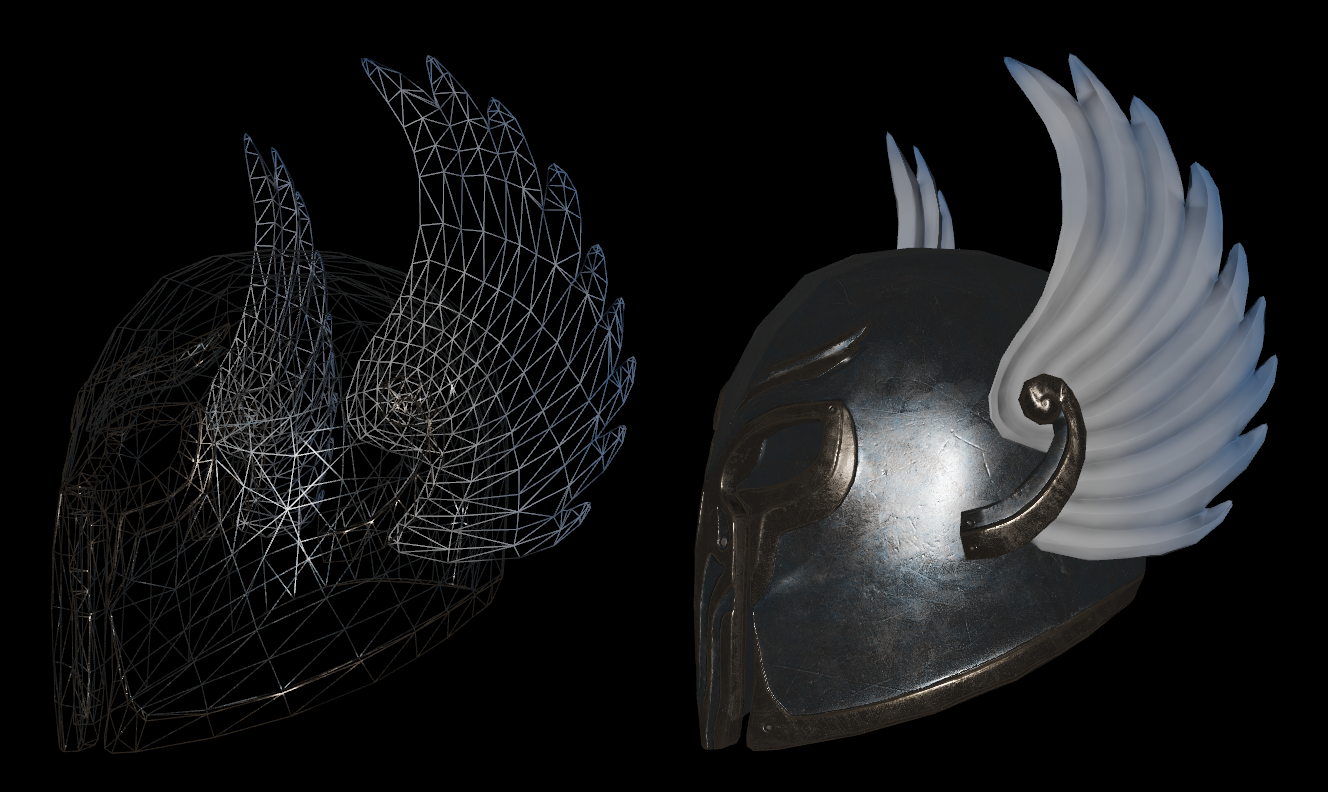
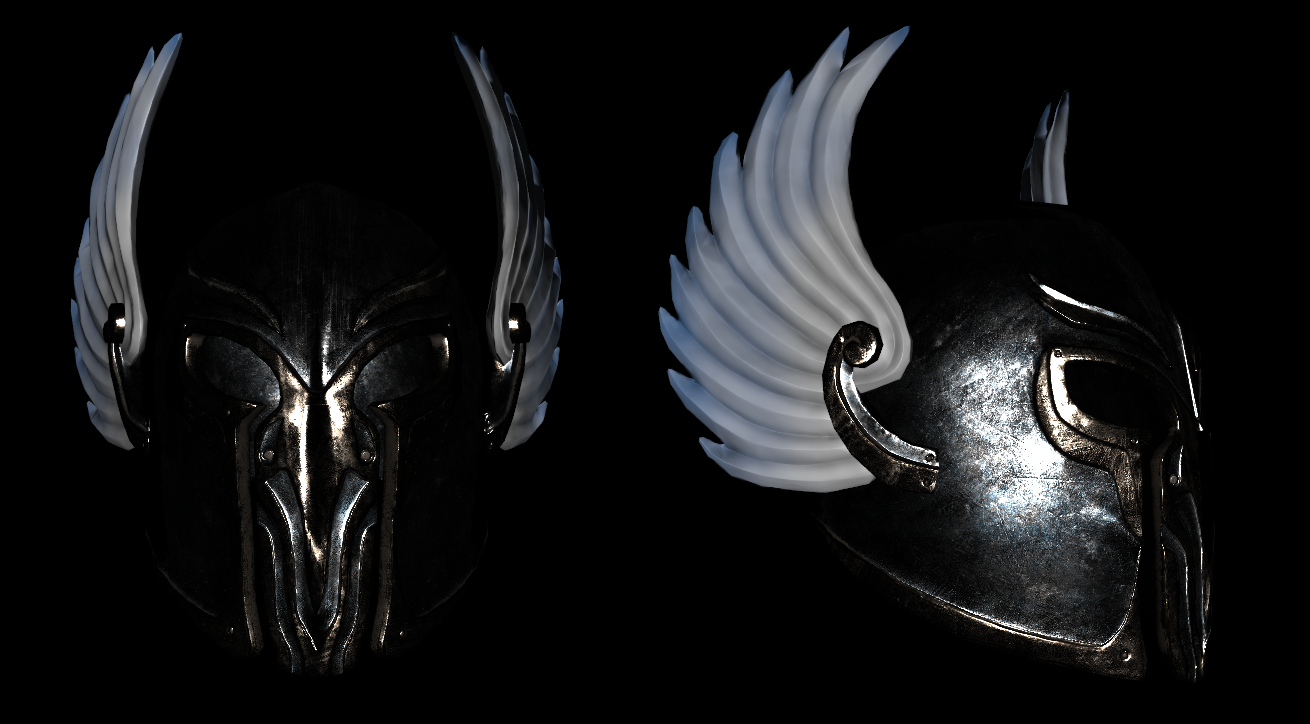
PBR improvements.
Former-commit-id: 627b5bbce116dc7125263aca098b2f6f8b824d4d [formerly 5e091105c04f564e76ded4a40b2308de1ba18736]
Former-commit-id: 474d54345386d47da9776db7f4a6f0b1cb49d98f

diff --git a/example/main.go b/example/main.go
@@ -13,8 +13,8 @@ import (
 
 func main() {
 	// Create a window.
-	window, err := laygl.NewFullScreenWindow("Layman OpenGL")
-	//window, err := laygl.NewWindow(1280, 720, "Layman OpenGL")
+	//window, err := laygl.NewFullScreenWindow("Layman OpenGL")
+	window, err := laygl.NewWindow(1280, 720, "Layman OpenGL")
 	if err != nil {
 		log.Fatalln("Unable to create fullscreen window:", err)
 	}
@@ -29,6 +29,9 @@ func main() {
 	// Load the model.
 	//model, err := laygl.LoadModel("helmet", "assets/cowboy.glb")
 	model, err := laygl.LoadModel("helmet", "assets/helmet.glb")
+	//model, err := laygl.LoadModel("helmet", "assets/corset.glb")
+	//model, err := laygl.LoadModel("helmet", "assets/boombox.glb")
+	//model, err := laygl.LoadModel("helmet", "assets/illya.glb")
 	if err != nil {
 		log.Fatalln("Unable to load cowboy model:", err)
 	}
@@ -56,7 +59,10 @@ func main() {
 	fps := 0
 	lastTime := time.Now()
 
-	entity.Translate(0, 0, -10) // FIXME: Why the directional light struggle at the origin?
+	//entity.Scale(2)
+	//entity.Scale(400)
+	//entity.Scale(600)
+	entity.Translate(0, 0, -10) // FIXME: Why the directional light struggles at the origin?
 
 	// Main loop
 	previousTime := glfw.GetTime()
@@ -68,7 +74,7 @@ func main() {
 		elapsed := t - previousTime
 		previousTime = t
 
-		entity.Rotate(0, float32(elapsed) * 0.25, 0)
+		entity.Rotate(0, float32(elapsed) * 0.5, 0)
 
 		// Render
 		renderer.Render(scene)

diff --git a/gltf.go b/gltf.go
@@ -322,6 +322,7 @@ func (g *Gltf) loadTexture(kind TextureKind, t *gltf.Texture) error {
 	}
 
 	detailed := kind == TextureAlbedo || kind == TextureMetallicRoughnessMap
+	detailed = true // FIXME
 
 	// Mipmapping.
 	if detailed {
@@ -382,7 +383,11 @@ func (g *Gltf) initialModelTransform() {
 
 func (g *Gltf) loadTangents() error {
 	// There aren't always present in the glTF file so we might as well just generate it all the time.
-	// TODO: Actually, only really needed for models with a normal map.
+
+	// Actually, only really needed for models with a normal map.
+	if g.mesh.normalMapTexture == nil {
+		return nil
+	}
 
 	g.mesh.tangents = g.generateTangents(g.mesh.indices, g.mesh.vertices, g.mesh.uvs, g.mesh.normals)
 

diff --git a/window.go b/window.go
@@ -62,6 +62,10 @@ func NewWindow(width, height int, title string) (*Window, error) {
 		log.Fatalln("Unable to initialize OpenGL:", err)
 	}
 
+	// Refresh every frame rendered. This is to please the window compositor on Windows, otherwise it stutters.
+	// The FPS should still remain that of the VSync.
+	glfw.SwapInterval(1)
+
 	return w, nil
 }
 
@@ -119,7 +123,7 @@ func incrementGlfw() {
 	glfw.WindowHint(glfw.ContextVersionMinor, 6)
 	glfw.WindowHint(glfw.OpenGLProfile, glfw.OpenGLCoreProfile)
 	glfw.WindowHint(glfw.OpenGLForwardCompatible, glfw.True)
-	glfw.WindowHint(glfw.Samples, 4)
+	glfw.WindowHint(glfw.Samples, 8)
 }
 
 func decrementGlfw() {

diff --git a/README.md b/README.md
@@ -12,7 +12,7 @@ A simple 3D engine for the layman.
 - Support glTF 2.0 file format.
 - Materials.
 - Normal maps.
-- Anti-aliasing (MSAA 4x multi-sampling).
+- Anti-aliasing (MSAA 8x multi-sampling).
 - Back-face culling optimization.
 - Mipmapping / anisotropic filtering.
 - Wireframe mode.
